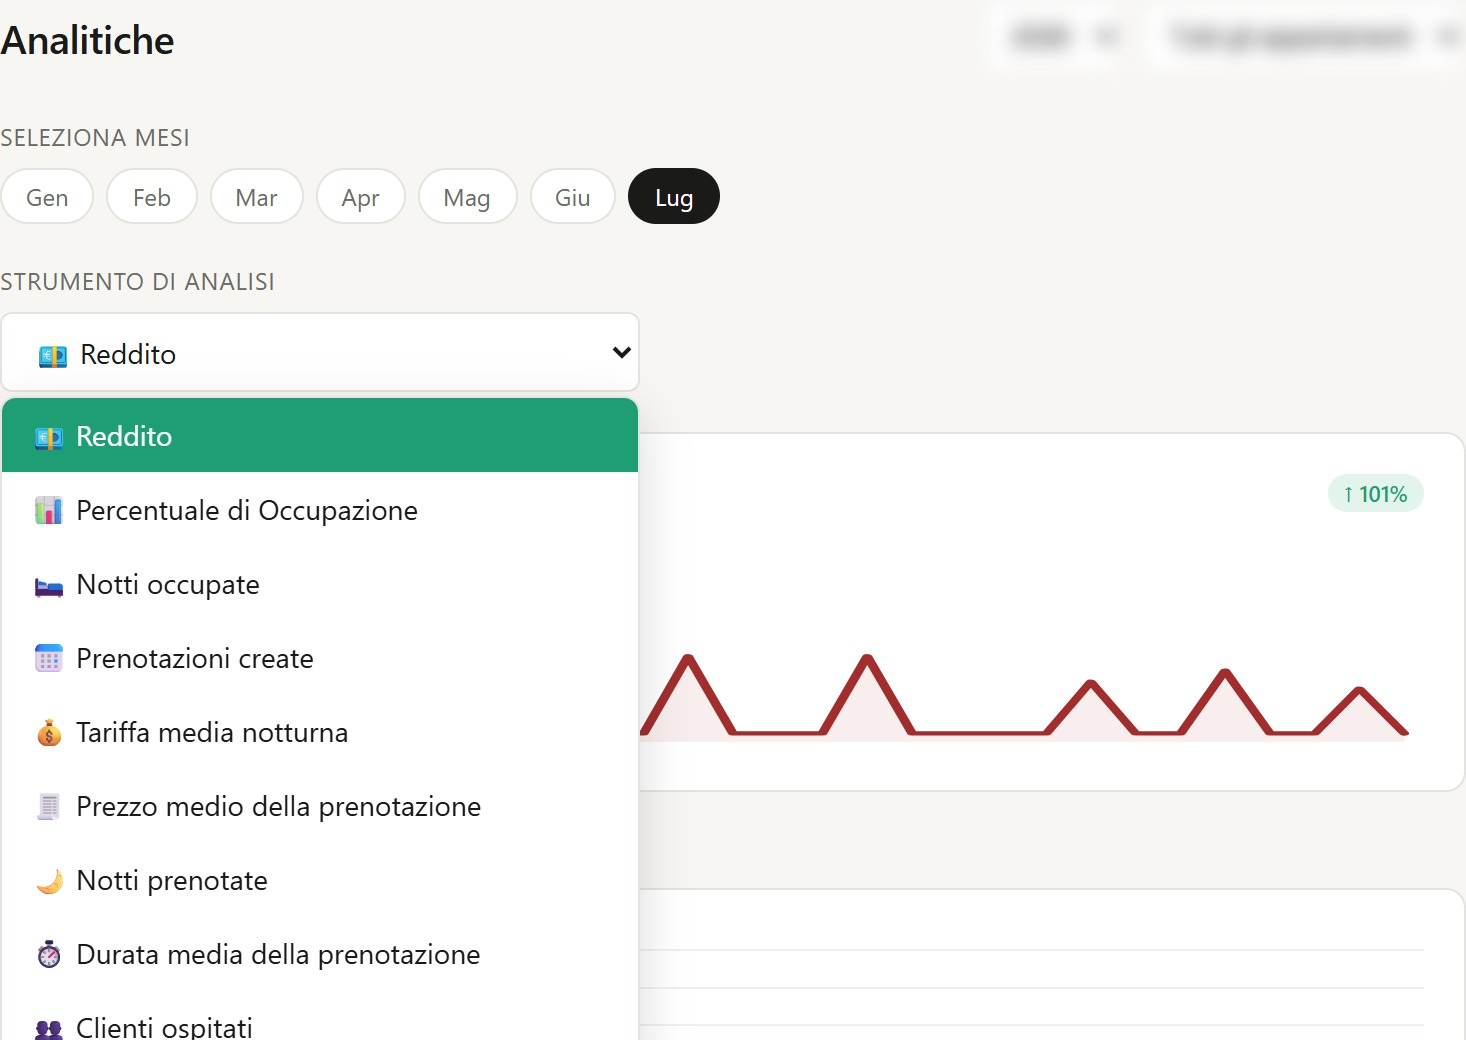
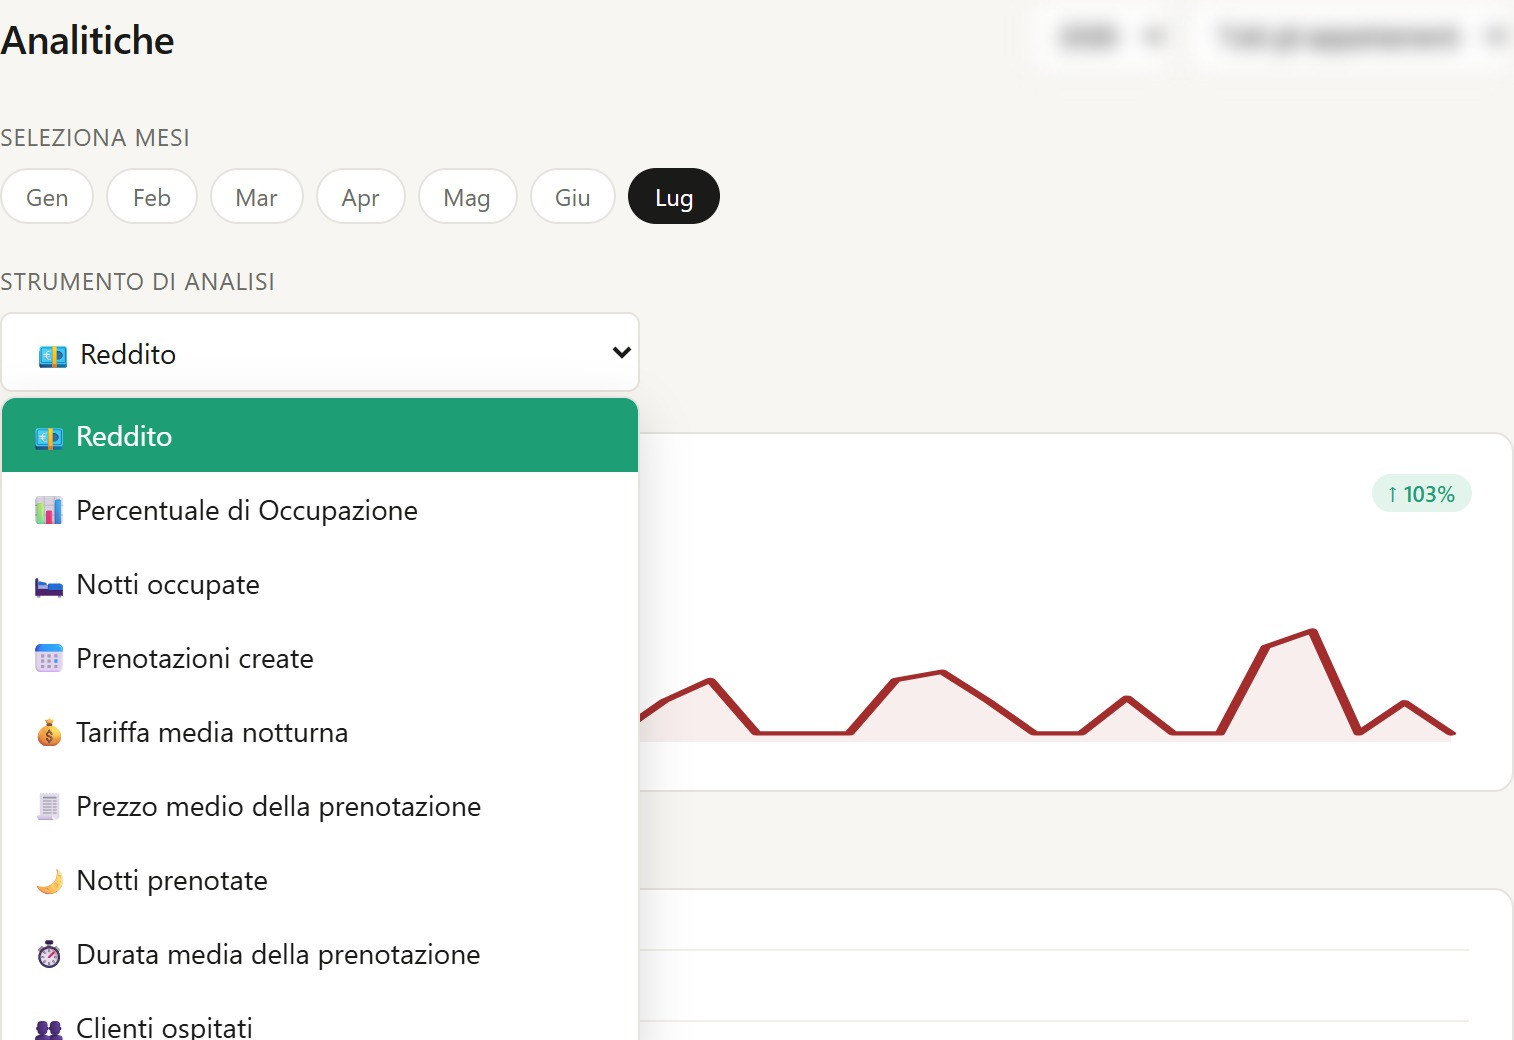
Aggiunge screenshot Appartamenti e Messaggi, dati finti su 3 strutture
Nuovi screenshot per la sezione anteprima del sito (6 in totale):
gestione multi-appartamento e messaggistica con gli ospiti. Il
mockup Messaggi è finto (l'interfaccia reale è un pannello Channex
incorporato, mostrarlo rivelerebbe il branding).

Dati mock estesi a 3 appartamenti con prenotazioni su più mesi/anni
per rendere credibili calendario, analitiche (crescita 103% mese su
mese, alta stagione) e questura. Nomi e indirizzi sempre sfocati.

diff --git a/public/index.html b/public/index.html
@@ -198,6 +198,24 @@ footer{background:var(--navy);color:rgba(255,255,255,0.45);padding:3rem 2rem}
         </div>
         <img src="screenshot-questura.jpg" alt="Invio schede Questura Gestaway" style="width:100%;display:block">
       </div>
+      <div style="border-radius:12px;overflow:hidden;box-shadow:0 8px 32px rgba(26,46,74,0.12);border:1px solid var(--border)">
+        <div style="background:var(--navy);padding:10px 16px;display:flex;align-items:center;gap:6px">
+          <div style="width:10px;height:10px;border-radius:50%;background:rgba(255,255,255,0.2)"></div>
+          <div style="width:10px;height:10px;border-radius:50%;background:rgba(255,255,255,0.2)"></div>
+          <div style="width:10px;height:10px;border-radius:50%;background:rgba(255,255,255,0.2)"></div>
+          <span style="color:rgba(255,255,255,0.5);font-size:11px;margin-left:8px">Gestione appartamenti</span>
+        </div>
+        <img src="screenshot-appartamenti.jpg" alt="Gestione appartamenti Gestaway" style="width:100%;display:block">
+      </div>
+      <div style="border-radius:12px;overflow:hidden;box-shadow:0 8px 32px rgba(26,46,74,0.12);border:1px solid var(--border)">
+        <div style="background:var(--navy);padding:10px 16px;display:flex;align-items:center;gap:6px">
+          <div style="width:10px;height:10px;border-radius:50%;background:rgba(255,255,255,0.2)"></div>
+          <div style="width:10px;height:10px;border-radius:50%;background:rgba(255,255,255,0.2)"></div>
+          <div style="width:10px;height:10px;border-radius:50%;background:rgba(255,255,255,0.2)"></div>
+          <span style="color:rgba(255,255,255,0.5);font-size:11px;margin-left:8px">Messaggi con gli ospiti</span>
+        </div>
+        <img src="screenshot-messaggi.jpg" alt="Messaggi con gli ospiti Gestaway" style="width:100%;display:block">
+      </div>
     </div>
     <div style="text-align:center;margin-top:2.5rem">
       <a href="/attiva" class="btn-red" style="display:inline-block">Inizia gratis — 14 giorni</a>
